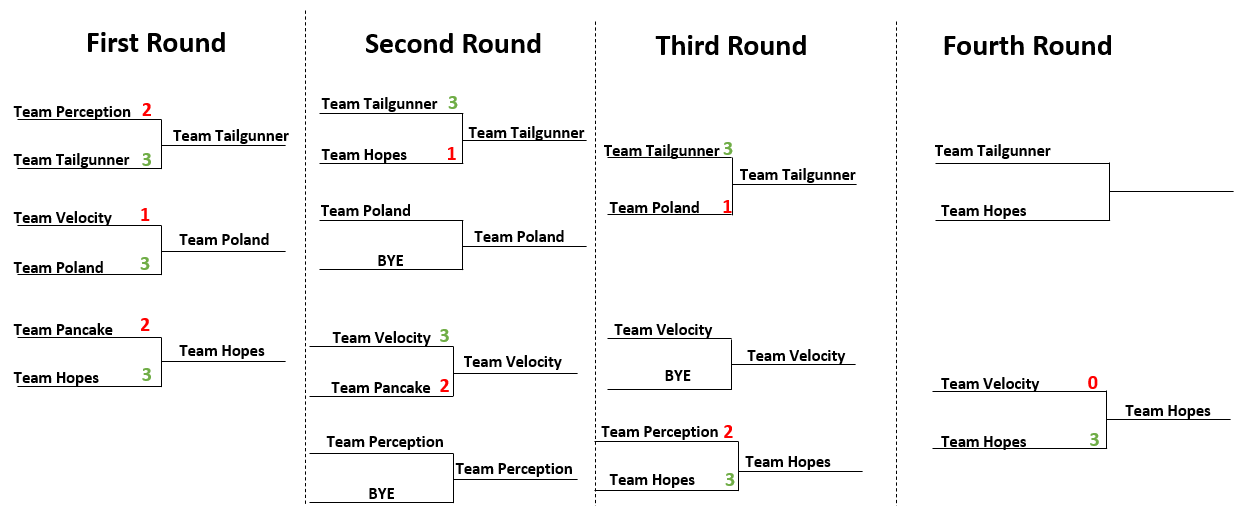
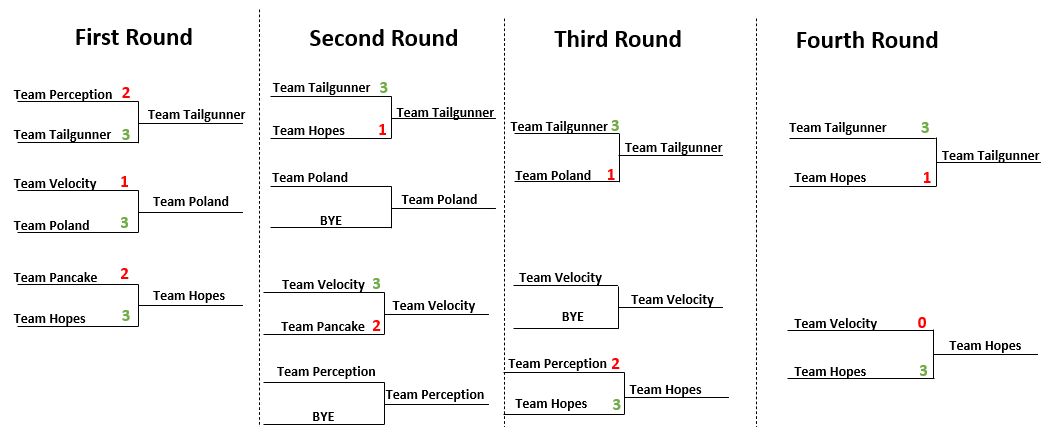
Add files via upload

diff --git a/Tournament_Champs.html b/Tournament_Champs.html
@@ -214,10 +214,9 @@
     </a>
     <div class="champ-info">
       <span class="tournament-date">Cash Tourney #6 May 2026 aka The Big One</span>
-      <h3 class="champ-name">TBD</h3>
+      <h3 class="champ-name">Team Tailgunner</h3>
       <p class="champ-description">
-      The biggest cash tourney yet, $1200 cash prize sponsored by Tag! We've got 6 teams of 6, double elimination, with Captains: Perception, Pancake, Velocity, Tailgunner, Poland, and Hopes. Join us on Thursday 5/7 @ 9:30 PM EST to kick off this tournament with the opening match between Team Perception vs. Team Tailgunner!
-      </p>
+      The biggest cash tourney yet, $1200 cash prize sponsored by Tag! Team Tailgunner, led by MVP performance by Tailgunner, defeats Team Hopes in a thrilling 3-1 final match. Reality, Undisputed, Rogue, Dreamz and AftaShock pick up their 1st Old Bow Trophy, and Tailgunner gets his 2nd trophy elevating him to a top 5 player on Old Bow!
     </div>
   </div>
 

diff --git a/champ_6.html b/champ_6.html
@@ -90,10 +90,10 @@
 </head>
 <body>
   <div class="container">
-    <h1>🏆 TBD </h1>
+    <h1>🏆 Team Tailgunner </h1>
     <p><strong>Tournament:</strong> Cash Tourney #6 May 2026 "The Big One"</p>
         <div class="stats">
-      <p>The biggest cash tourney yet, $1200 cash prize sponsored by Tag! We've got 6 teams of 6, double elimination, with Captains: Perception, Pancake, Velocity, Tailgunner, Poland, and Hopes. Join us on Thursday 5/7 @ 9:30 PM EST to kick off this tournament with the opening match between Team Perception vs. Team Tailgunner!
+      <p>The biggest cash tourney yet, $1200 cash prize sponsored by Tag! Team Tailgunner, led by MVP performance by Tailgunner, defeats Team Hopes in a thrilling 3-1 final match. Reality, Undisputed, Rogue, Dreamz and AftaShock pick up their 1st Old Bow Trophy, and Tailgunner gets his 2nd trophy elevating him to a top 5 player on Old Bow!
       </p>
       </div>
       <div class="img-container">